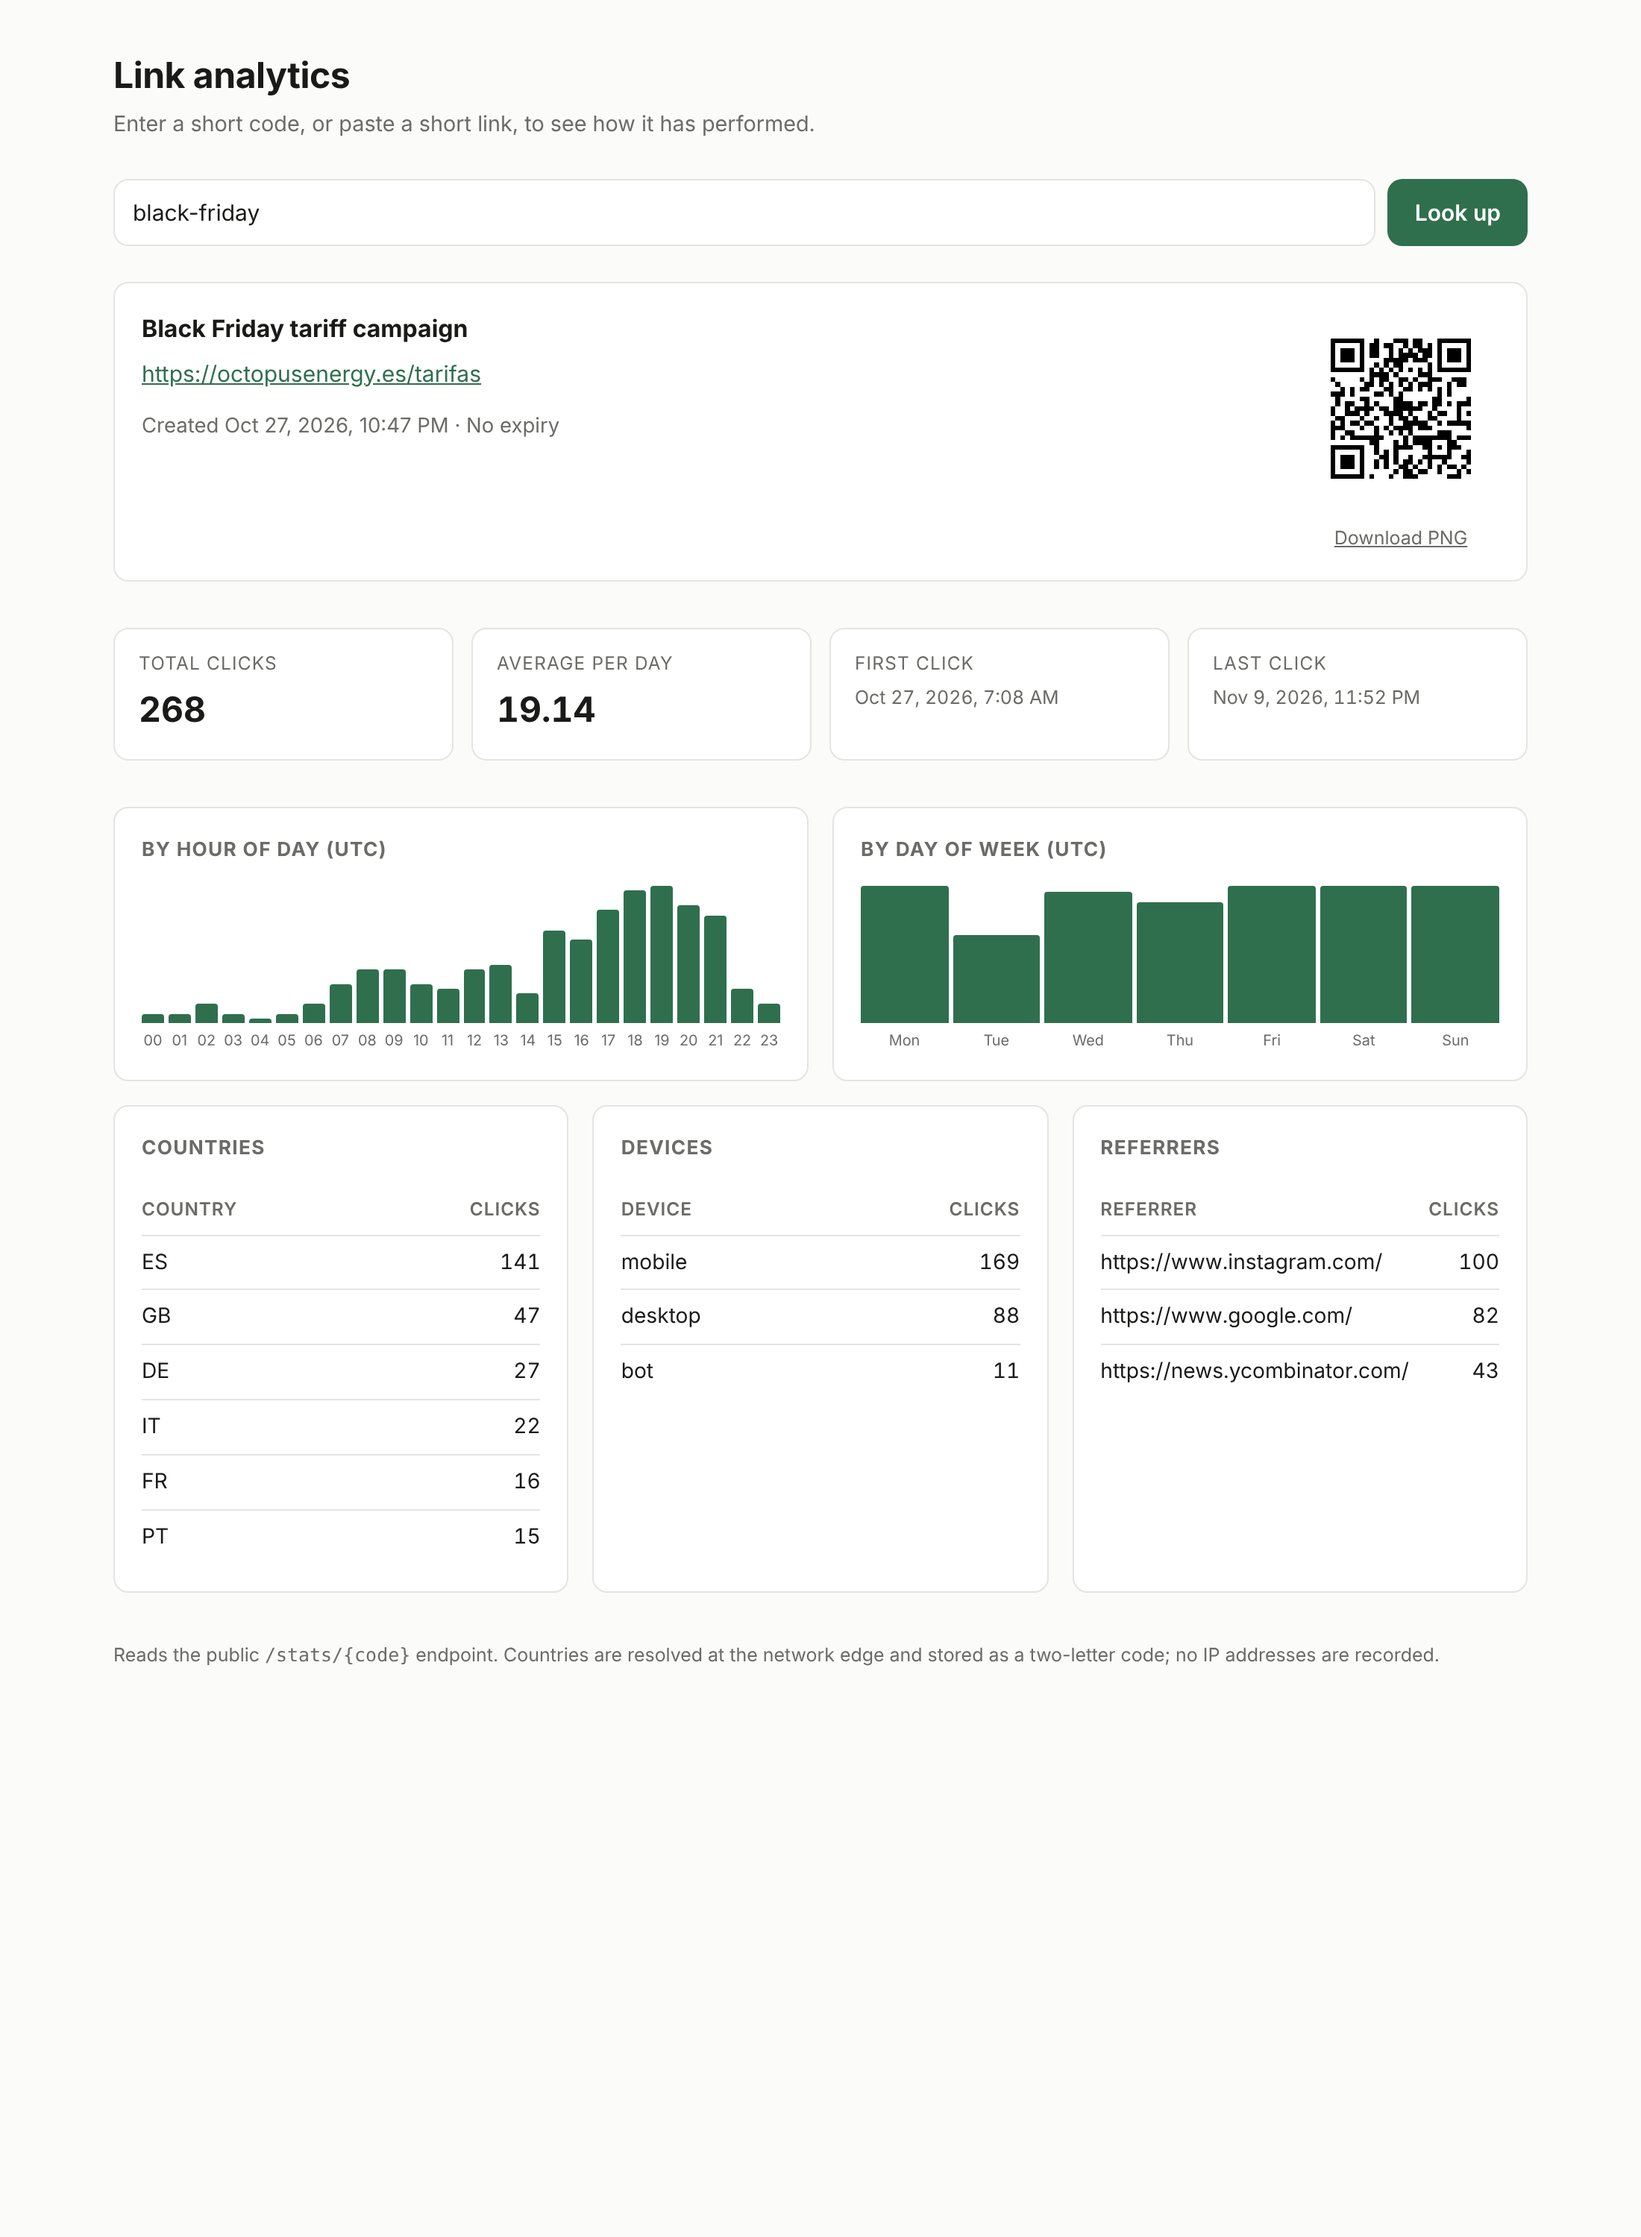
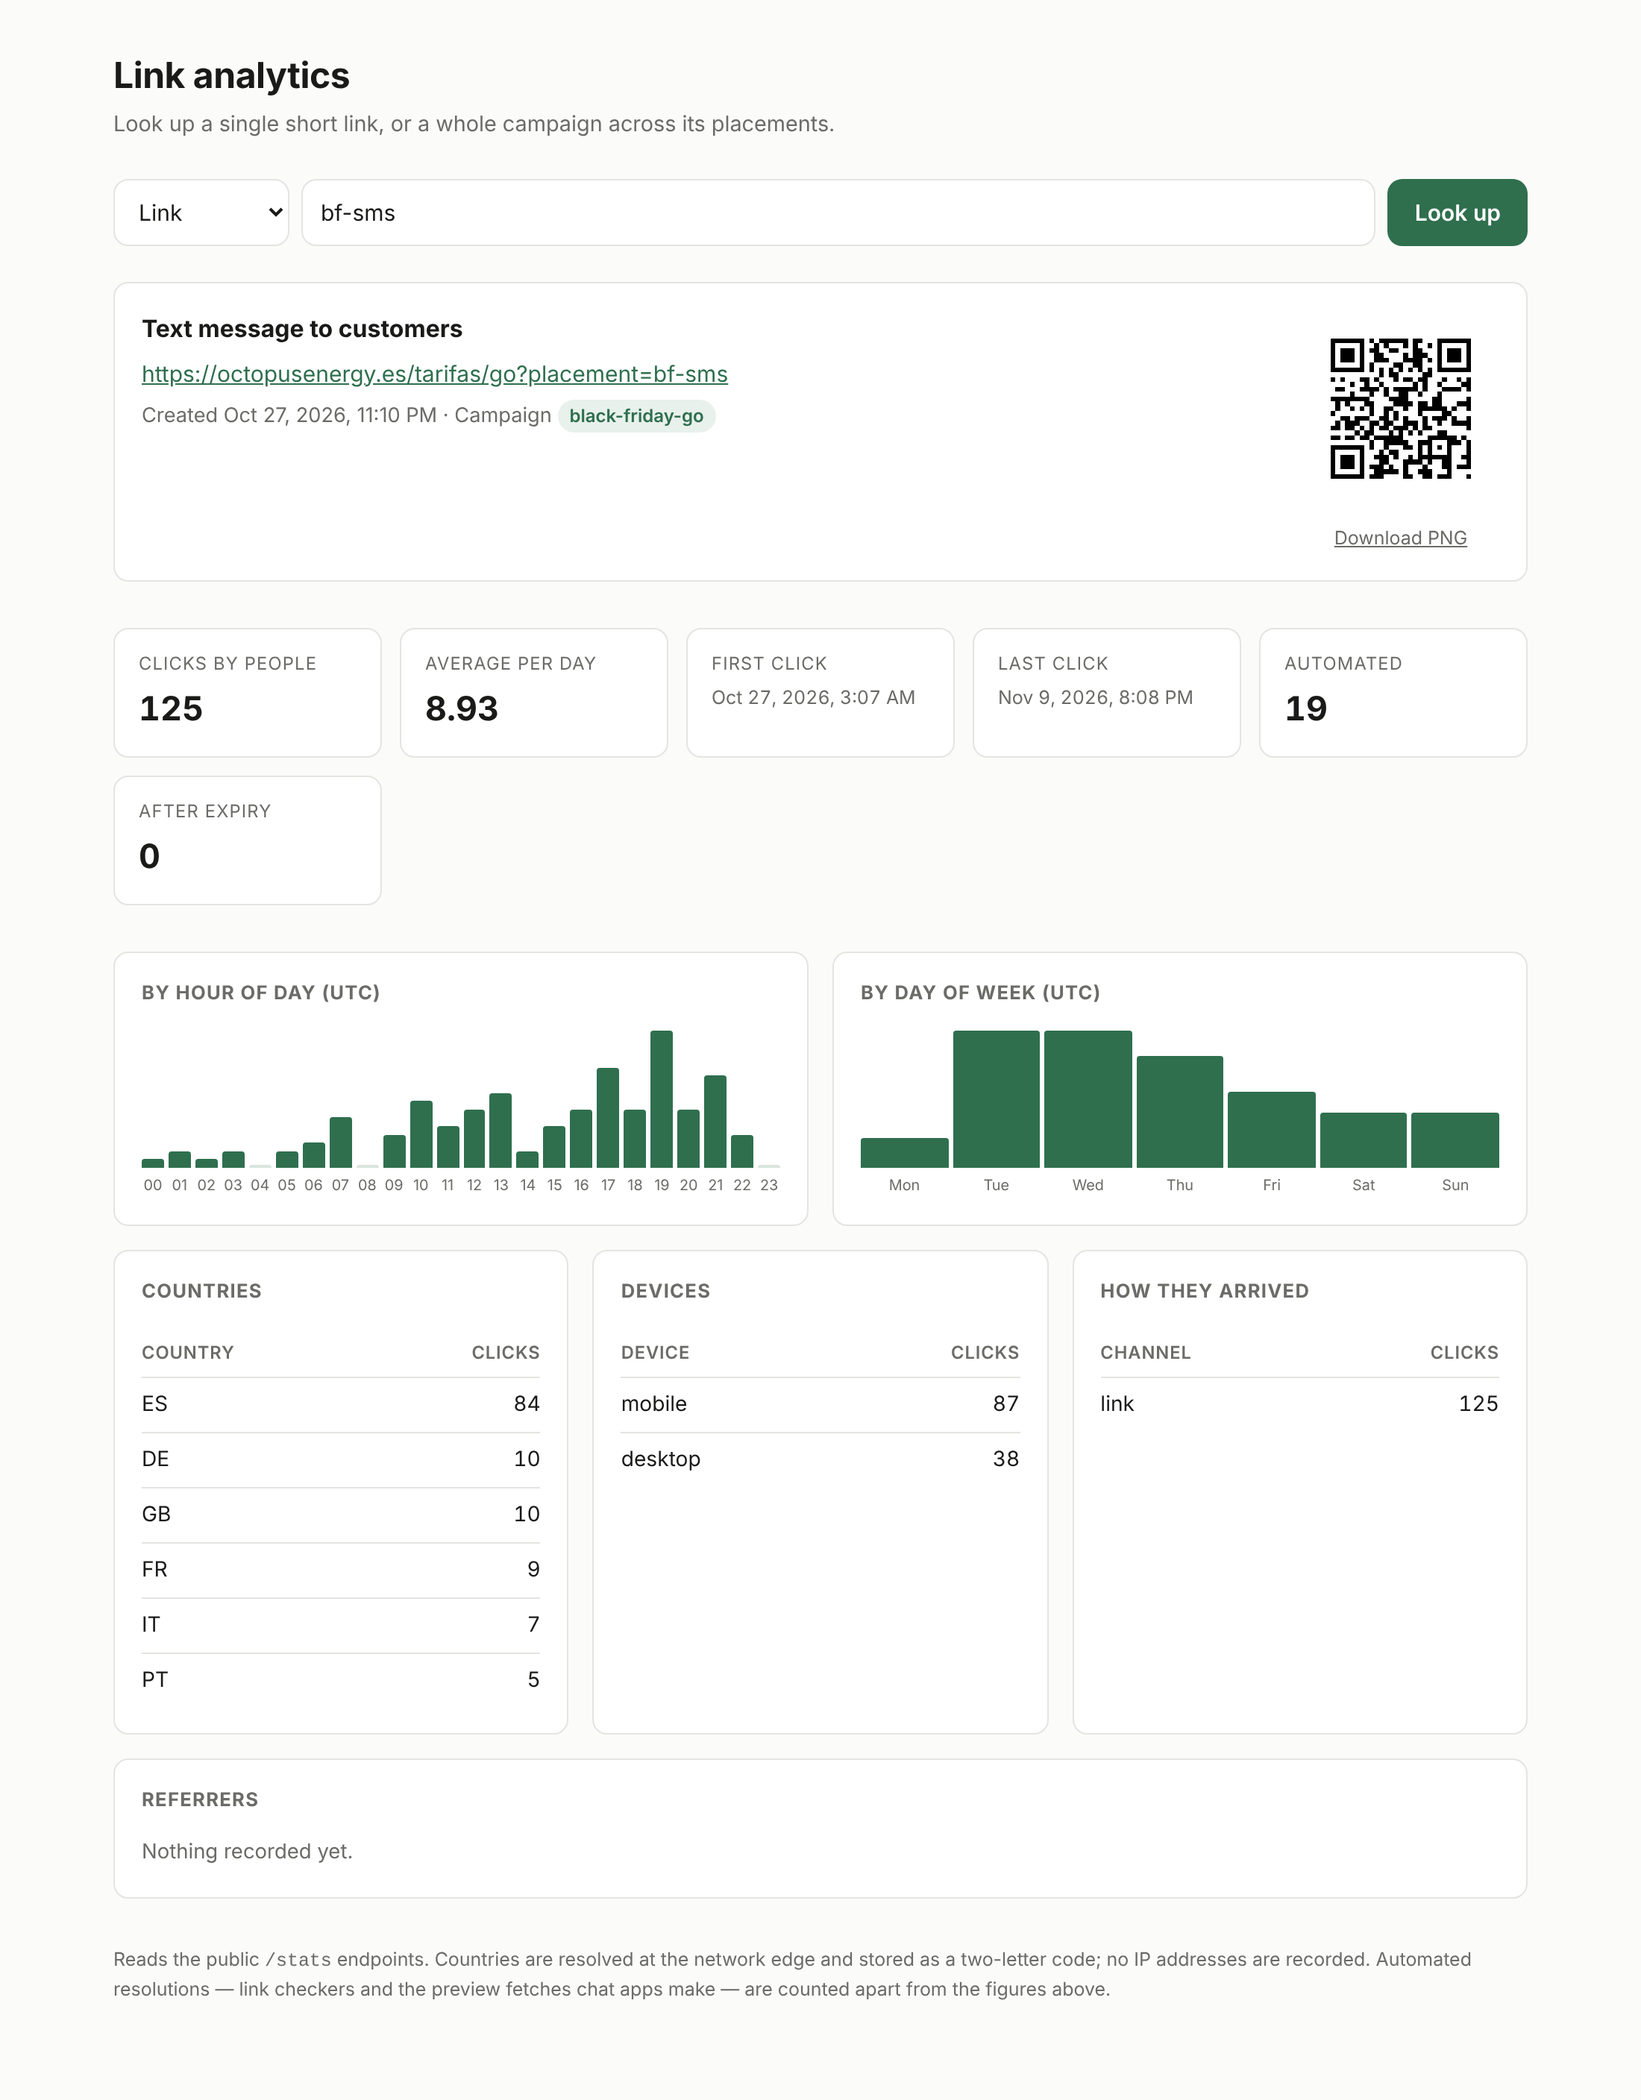
feat(analytics): read a whole campaign from the page
The page gained a campaign view alongside the per-link one, and reports automated and
post-expiry resolutions where before it reported one total. The seeding script now builds
a four-placement campaign whose channels decay the way real ones do, so the page shows a
story rather than a flat line.

diff --git a/scripts/seed_demo.py b/scripts/seed_demo.py
@@ -1,75 +1,108 @@
-"""Populate a database with a demonstration link and a fortnight of clicks.
+"""Populate a database with a demonstration campaign and a fortnight of clicks.
 
-For showing the service with something to look at. It writes through the same storage the
-application uses, so nothing here is a special case.
+Four placements of one Black Friday campaign, each with the traffic shape its channel
+would really have: a text message lands fast and dies, a poster trickles in by QR all
+fortnight. It writes through the same storage the application uses, so nothing here is a
+special case.
 
     uv run python -m scripts.seed_demo
 """
 
 import random
+from dataclasses import dataclass
 from datetime import UTC, datetime, timedelta
 
 from app.config import get_settings
-from app.domain import Click, Link
+from app.domain import CHANNEL_LINK, CHANNEL_QR, Click, Link
 from app.storage import SqliteStorage
 
-DEMO_CODE = "black-friday"
-DEMO_URL = "https://octopusenergy.es/tarifas"
+CAMPAIGN = "black-friday-go"
+DESTINATION = "https://octopusenergy.es/tarifas/go"
+
 COUNTRIES = ["ES", "GB", "DE", "FR", "IT", "PT"]
-COUNTRY_WEIGHTS = [50, 20, 10, 8, 7, 5]
-DEVICES = ["mobile", "desktop", "bot"]
-DEVICE_WEIGHTS = [62, 33, 5]
-REFERRERS = [
-    "https://www.instagram.com/",
-    "https://news.ycombinator.com/",
-    "https://www.google.com/",
-    None,
-]
-REFERRER_WEIGHTS = [40, 15, 30, 15]
-# Evening hours carry most of the traffic, which is what a consumer campaign looks like.
+COUNTRY_WEIGHTS = [60, 14, 9, 7, 6, 4]
+# Evening hours carry most of a consumer campaign's traffic.
 HOUR_WEIGHTS = [1, 1, 1, 1, 1, 2, 4, 7, 9, 8, 7, 8, 9, 8, 7, 8, 11, 16, 20, 22, 18, 12, 6, 3]
+
+
+@dataclass(frozen=True, slots=True)
+class Placement:
+    """One channel the campaign was placed in."""
+
+    code: str
+    label: str
+    channel: str
+    daily_range: tuple[int, int]
+    # How the placement decays over the fortnight: a text message is read the day it
+    # arrives, a printed poster keeps working.
+    decay: float
+    referrer: str | None
+
+
+PLACEMENTS = (
+    Placement("bf-sms", "Text message to customers", CHANNEL_LINK, (30, 60), 0.72, None),
+    Placement("bf-email", "Newsletter", CHANNEL_LINK, (10, 22), 0.85, None),
+    Placement(
+        "bf-instagram", "Instagram post", CHANNEL_LINK, (8, 20), 0.9, "https://www.instagram.com/"
+    ),
+    Placement("bf-poster", "Dealership poster", CHANNEL_QR, (3, 9), 1.0, None),
+)
 
 
 def main() -> None:
     random.seed(20261109)
     storage = SqliteStorage(get_settings().database_path)
     created_at = datetime.now(UTC) - timedelta(days=13)
-
-    if storage.get_link(DEMO_CODE) is None:
-        storage.add_link(
-            Link(
-                code=DEMO_CODE,
-                url=DEMO_URL,
-                label="Black Friday tariff campaign",
-                created_at=created_at,
-                expires_at=None,
-            )
-        )
-
     hours = list(range(24))
-    for day in range(14):
-        date = created_at + timedelta(days=day)
-        # A campaign ramps up and tails off rather than drawing a flat line.
-        for _ in range(random.randint(8, 34)):
-            moment = date.replace(
-                hour=random.choices(hours, weights=HOUR_WEIGHTS)[0],
-                minute=random.randrange(60),
-                second=random.randrange(60),
-                microsecond=0,
-            )
-            storage.add_click(
-                Click(
-                    code=DEMO_CODE,
-                    clicked_at=moment,
-                    referrer=random.choices(REFERRERS, weights=REFERRER_WEIGHTS)[0],
-                    country=random.choices(COUNTRIES, weights=COUNTRY_WEIGHTS)[0],
-                    device=random.choices(DEVICES, weights=DEVICE_WEIGHTS)[0],
+    total = 0
+
+    for placement in PLACEMENTS:
+        if storage.get_link(placement.code) is None:
+            storage.add_link(
+                Link(
+                    code=placement.code,
+                    url=f"{DESTINATION}?placement={placement.code}",
+                    label=placement.label,
+                    created_at=created_at,
+                    campaign=CAMPAIGN,
                 )
             )
 
-    stats = storage.get_statistics(DEMO_CODE)
+        low, high = placement.daily_range
+        for day in range(14):
+            date = created_at + timedelta(days=day)
+            volume = round(random.randint(low, high) * placement.decay**day)
+            for _ in range(volume):
+                moment = date.replace(
+                    hour=random.choices(hours, weights=HOUR_WEIGHTS)[0],
+                    minute=random.randrange(60),
+                    second=random.randrange(60),
+                    microsecond=0,
+                )
+                # Roughly one resolution in twelve is a preview fetch or a link checker.
+                automated = random.random() < 0.08
+                storage.add_click(
+                    Click(
+                        code=placement.code,
+                        clicked_at=moment,
+                        referrer=placement.referrer,
+                        country=random.choices(COUNTRIES, weights=COUNTRY_WEIGHTS)[0],
+                        device="bot" if automated else random.choices(
+                            ["mobile", "desktop"], weights=[68, 32]
+                        )[0],
+                        channel=placement.channel,
+                        is_bot=automated,
+                    )
+                )
+                total += 1
+
+    stats = storage.get_campaign_statistics(CAMPAIGN)
     assert stats is not None
-    print(f"Seeded /{DEMO_CODE} with {stats.total_clicks} clicks across 14 days.")
+    print(
+        f"Seeded campaign {CAMPAIGN!r} with {len(stats.links)} placements and {total} "
+        f"recorded resolutions ({stats.total_clicks} of them people)."
+    )
+    print(f"Look at /app?code={PLACEMENTS[0].code} or /app?campaign={CAMPAIGN}")
 
 
 if __name__ == "__main__":
